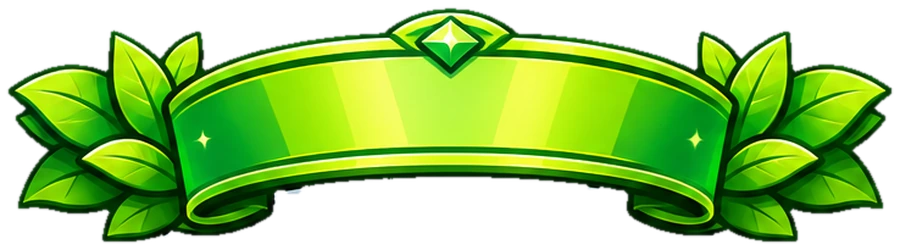
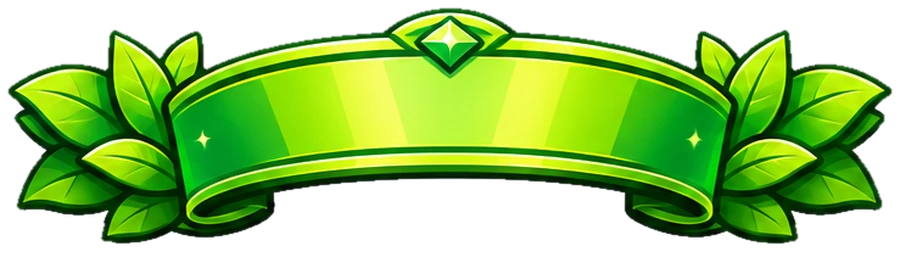
v125 : rubans parfaits, pseudo centré avec contour coloré, plus calme = le plus proche, retour à la fiche d'origine
Claude-Session: https://claude.ai/code/session_015rMa72ZKTeXG5gb4Qifn48

Changed region(s): [[0.0, 0.028, 0.9956, 0.98], [0.2178, 0.504, 0.2489, 0.588], [0.6844, 0.42, 0.7156, 0.448]]

diff --git a/js/app.js b/js/app.js
@@ -1,17 +1,17 @@
 // Y'a du peuple ? — logique de l'appli (carte, fiche, signalement, compte).
-import { api, DEMO } from './api.js?v=124';
+import { api, DEMO } from './api.js?v=125';
 import {
   MAP_STYLE_URL, DEFAULT_CENTER, DEFAULT_ZOOM, CONTACT_EMAIL, GOOGLE_CLIENT_ID,
   ROUTE, REFRESH_MS,
-} from './config.js?v=124';
+} from './config.js?v=125';
 import {
   LEVELS, LEVEL_INFO, WAIT_INFO, NO_INFO, levelInfo, describeStatus, mainStatus, brandShort,
   theoryLevelAt, parisNow, bestTimeToday, fmtHour, distanceM, fmtDistance, ago,
   levelFromPercent, gDay, dayHours, bestTimeFromProfile, openState, hoursLines,
   estimateRoute, fmtDuration,
-} from './levels.js?v=124';
-import { airbnbize, addShieldImage } from './mapstyle.js?v=124';
-import { BRAND_PATHS } from './brands.js?v=124';
+} from './levels.js?v=125';
+import { airbnbize, addShieldImage } from './mapstyle.js?v=125';
+import { BRAND_PATHS } from './brands.js?v=125';
 
 // ---------------------------------------------------------------------------
 // État
@@ -930,7 +930,9 @@ function renderDetail(id) {
   const curveLoading = !detailExtra.has(id);
   const calmer = detailExtra.get(id)?.calmer;
   const fav = state.favorites.has(id);
+  const back = detailBack?.for === id ? state.establishments.get(detailBack.from) : null;
   const html = `
+    ${back ? `<button type="button" class="back-link" id="btn-detail-back">‹ Retour à ${esc(back.name)}</button>` : ''}
     <div class="sheet-head">
       <div class="grow">
         <h2>${esc(e.name)}</h2>
@@ -946,7 +948,7 @@ function renderDetail(id) {
     ${e.has_dine_in ? serviceBlock(e, 'salle') : ''}
     ${e.has_drive ? serviceBlock(e, 'drive') : ''}
     ${calmer?.label ? (calmer.id && state.establishments.has(calmer.id)
-      ? `<button type="button" class="hint hint-go" id="btn-calmer">💡 ${esc(calmer.label)} <span class="hint-arrow">›</span></button>`
+      ? `<button type="button" class="hint hint-go" id="btn-calmer">💡 ${esc(calmer.label)}${calmer.distance_m != null ? ` · ${calmer.distance_m < 1000 ? calmer.distance_m + ' m' : (calmer.distance_m / 1000).toFixed(1).replace('.', ',') + ' km'}` : ''} <span class="hint-arrow">›</span></button>`
       : `<div class="hint">💡 ${esc(calmer.label)}</div>`) : ''}
     ${curveHtml(e, profile, curveLoading)}
     <button class="btn btn-primary" id="btn-report">J'y suis : je signale l'affluence</button>
@@ -956,7 +958,8 @@ function renderDetail(id) {
   detailShown = id;
   $('#btn-close').onclick = closeSheet;
   $('#btn-report').onclick = () => openReport(id);
-  const bc = $('#btn-calmer'); if (bc) bc.onclick = () => openDetail(calmer.id);
+  const bc = $('#btn-calmer'); if (bc) bc.onclick = () => openDetail(calmer.id, id);
+  const bb = $('#btn-detail-back'); if (bb) bb.onclick = () => { const f = detailBack.from; detailBack = null; openDetail(f); };
   const gpsBtn = document.querySelector('#btn-route-gps');
   if (gpsBtn) gpsBtn.onclick = () => askLocation();
   document.querySelectorAll('#sheet-body .day-tab').forEach((b) => b.onclick = () => { curveDay = Number(b.dataset.day); renderDetail(id); });
@@ -978,9 +981,12 @@ function focusResto(e) {
   });
 }
 
-async function openDetail(id) {
+let detailBack = null; // { for: id affiché, from: id de la fiche d'origine } (« Plus calme à côté »)
+async function openDetail(id, fromId) {
   const e = state.establishments.get(id);
   if (!e) return;
+  if (fromId) detailBack = { for: id, from: fromId };
+  else if (detailBack?.for !== id) detailBack = null;
   if (state.selectedId && state.selectedId !== id) state.markers.get(state.selectedId)?.el.classList.remove('selected');
   state.selectedId = id;
   state.markers.get(id)?.el.classList.add('selected');
@@ -1507,14 +1513,16 @@ const custom = {
   async load() { if (!this.list.length) this.list = await api.customizations() || []; return this.list; },
   find(kind, code) { return this.list.find((c) => c.kind === kind && c.code === code); },
   // Valeur = fichier image de l'appli (icons/avatars/…svg, icons/banners/…svg) ; ancien format emoji/dégradé toléré.
-  img(v, cls = '') { return /\.(webp|png|svg)$/.test(v || '') ? `<img src="${v}?v=124" alt="" class="${cls}">` : (v || ''); },
-  bg(v) { return /\.(webp|png|svg)$/.test(v || '') ? `url(${v}?v=124) center/cover` : v; },
+  img(v, cls = '') { return /\.(webp|png|svg)$/.test(v || '') ? `<img src="${v}?v=125" alt="" class="${cls}">` : (v || ''); },
+  bg(v) { return /\.(webp|png|svg)$/.test(v || '') ? `url(${v}?v=125) center/cover` : v; },
   avatar(code) { return this.img(this.find('avatar', code)?.value, 'avatar-img' + (String(code).startsWith('badge_') ? ' is-badge' : '')); },
   // Bannière = ruban qui porte le pseudo (rubans du 15/11/2026, découpés tels quels).
+  // Pseudo : centré sur la bande de chaque ruban (hauteur mesurée) + contour de la couleur du ruban, foncée.
+  RIB: { ruban_argent: ['45%', '#354265'], ruban_bleu: ['44%', '#00656e'], ruban_obsidienne: ['43.5%', '#1a1527'], ruban_or: ['45.8%', '#605800'], ruban_outils: ['45.7%', '#035354'], ruban_rose: ['44%', '#890355'], ruban_rouge: ['49.5%', '#500a00'], ruban_royal: ['46.5%', '#300542'], ruban_trophee: ['49.5%', '#442a04'], ruban_vert: ['44%', '#485903'] },
   ribbon(code, pseudo) {
     const b = this.find('banner', code) || this.list.find((c) => c.kind === 'banner');
-    const dark = /argent/.test(b?.code || '');
-    return `<div class="ribbon ${dark ? 'dark' : ''}">${b ? `<img src="${b.value}?v=124" alt="">` : ''}<span>${esc(pseudo || '')}</span></div>`;
+    const [ty, tc] = this.RIB[b?.code] || ['46%', '#0B1F3A'];
+    return `<div class="ribbon" style="--ty:${ty};--tc:${tc}">${b ? `<img src="${b.value}?v=125" alt="">` : ''}<span>${esc(pseudo || '')}</span></div>`;
   },
 };
 async function openCustomize() {
@@ -1526,7 +1534,7 @@ async function openCustomize() {
     const needBadge = c.requires_badge && !mine.has(c.requires_badge);
     const locked = lvl < c.min_level || needBadge;
     const on = (c.kind === 'avatar' ? p.avatar : p.banner) === c.code;
-    const inner = c.kind === 'avatar' ? `<span class="cz-emoji">${custom.img(c.value, 'cz-img')}</span>` : `<span class="cz-ribbon"><img src="${c.value}?v=124" alt=""></span>`;
+    const inner = c.kind === 'avatar' ? `<span class="cz-emoji">${custom.img(c.value, 'cz-img')}</span>` : `<span class="cz-ribbon"><img src="${c.value}?v=125" alt=""></span>`;
     const label = c.requires_badge ? (needBadge ? '🔒 À gagner' : (BADGE_NAMES[c.requires_badge] || 'Badge')) : `${locked ? '🔒 ' : ''}Niv. ${c.min_level}`;
     return `<button type="button" class="cz ${on ? 'on' : ''} ${locked ? 'locked' : ''}" data-kind="${c.kind}" data-code="${c.code}" ${locked ? 'disabled' : ''}>
       ${inner}<span class="cz-lock">${esc(label)}</span></button>`;
@@ -1602,7 +1610,7 @@ const BADGE_ART = new Set(['v1', 'v10', 'v50', 'v100', 'v250', 'v500', 'drive10'
 // Badges en .svg : plus aucun (outils/badges_sheet.py et badges_sheet2.py découpent les images ChatGPT).
 const BADGE_SVG = new Set(); // tous les badges sont maintenant des images ChatGPT (.webp)
 const badgeImg = (code) => BADGE_ART.has(code)
-  ? `<img src="icons/badges/${code}.${BADGE_SVG.has(code) ? 'svg' : 'webp'}?v=124" alt="" class="badge-img">`
+  ? `<img src="icons/badges/${code}.${BADGE_SVG.has(code) ? 'svg' : 'webp'}?v=125" alt="" class="badge-img">`
   : `<span class="badge-emoji">${BADGE_ICONS[code] || '🏅'}</span>`;
 async function badgesHtml() {
   const rows = await api.badgesProgress() || [];

diff --git a/css/app.css b/css/app.css
@@ -607,10 +607,13 @@ html, body, .sheet, .sheet-body, .welcome, .cards { touch-action: pan-x pan-y; }
 .profile-head .avatar { width: 84px; height: 84px; background: var(--navy); box-shadow: 0 0 0 3px #fff, 0 4px 14px rgba(11,31,58,.25); position: relative; z-index: 2; }
 .ribbon { position: relative; z-index: 1; width: min(100%, 330px); margin-top: 10px; filter: drop-shadow(0 3px 6px rgba(11,31,58,.18)); }
 .ribbon img { display: block; width: 100%; height: auto; }
-.ribbon span { position: absolute; left: 22%; right: 22%; top: 50%; transform: translateY(-38%); font-weight: 900; font-size: clamp(15px, 5.2vw, 21px); line-height: 1.1; color: #fff; text-shadow: 0 1px 0 rgba(0,0,0,.45), 0 0 6px rgba(0,0,0,.35); white-space: nowrap; overflow: hidden; text-overflow: ellipsis; letter-spacing: .2px; }
-.ribbon.dark span { color: var(--navy); text-shadow: 0 1px 0 rgba(255,255,255,.6); }
+.ribbon span { position: absolute; left: 21%; right: 21%; top: var(--ty, 46%); transform: translateY(-50%); text-align: center; font-weight: 900; font-size: clamp(15px, 5.2vw, 21px); line-height: 1.15; color: #fff; letter-spacing: .3px; white-space: nowrap; overflow: hidden; text-overflow: ellipsis; padding: 3px 2px;
+  text-shadow: 2px 0 0 var(--tc), -2px 0 0 var(--tc), 0 2px 0 var(--tc), 0 -2px 0 var(--tc), 1.5px 1.5px 0 var(--tc), -1.5px 1.5px 0 var(--tc), 1.5px -1.5px 0 var(--tc), -1.5px -1.5px 0 var(--tc), 0 3px 4px rgba(0,0,0,.35); }
 .profile-head .lvl { margin-top: 2px; }
 .cz-ribbon { display: block; width: 100%; }
 .cz-ribbon img { display: block; width: 100%; height: auto; }
 .avatar-img.is-badge, .cz-img[src*="badges/"] { border-radius: 0; object-fit: contain; }
 .avatar .avatar-img.is-badge { width: 92%; height: 92%; margin: 4%; }
+
+.back-link { display: inline-flex; align-items: center; gap: 4px; border: 0; background: #F0FDFA; color: #0F766E; font: inherit; font-size: 13.5px; font-weight: 800; padding: 7px 12px; border-radius: 999px; margin: 0 0 8px; cursor: pointer; max-width: 100%; overflow: hidden; text-overflow: ellipsis; white-space: nowrap; }
+.back-link:active { transform: scale(.97); }

diff --git a/index.html b/index.html
@@ -19,13 +19,13 @@
   <meta name="twitter:image" content="https://yadupeuple.github.io/icons/og.png">
   <meta name="theme-color" content="#0B1F3A">
   <link rel="manifest" href="manifest.webmanifest">
-  <link rel="icon" href="icons/fav-64.png?v=124" type="image/png" sizes="64x64">
-  <link rel="icon" href="icons/fav-192.png?v=124" type="image/png" sizes="192x192">
-  <link rel="apple-touch-icon" href="icons/icon-192.png?v=124">
+  <link rel="icon" href="icons/fav-64.png?v=125" type="image/png" sizes="64x64">
+  <link rel="icon" href="icons/fav-192.png?v=125" type="image/png" sizes="192x192">
+  <link rel="apple-touch-icon" href="icons/icon-192.png?v=125">
   <meta name="apple-mobile-web-app-capable" content="yes">
   <meta name="apple-mobile-web-app-status-bar-style" content="default">
   <link rel="stylesheet" href="vendor/maplibre-gl.css">
-  <link rel="stylesheet" href="css/app.css?v=124">
+  <link rel="stylesheet" href="css/app.css?v=125">
 </head>
 <body class="intro">
   <div id="map" aria-label="Carte des restaurants"></div>
@@ -68,7 +68,7 @@
   <section class="welcome" id="welcome" hidden>
     <div class="welcome-inner">
       <div class="welcome-logo">
-        <img src="icons/icon-512.png?v=124" alt="" width="110" height="110" style="border-radius:26px">
+        <img src="icons/icon-512.png?v=125" alt="" width="110" height="110" style="border-radius:26px">
       </div>
       <h1>Y'a du peuple&nbsp;?</h1>
       <p class="slogan" id="slogan">Venu pour manger, pas pour poireauter.</p>
@@ -87,6 +87,6 @@
 
   <script src="vendor/maplibre-gl.js"></script>
   <script src="vendor/supabase.js"></script>
-  <script type="module" src="js/app.js?v=124"></script>
+  <script type="module" src="js/app.js?v=125"></script>
 </body>
 </html>

diff --git a/demo.html b/demo.html
@@ -7,12 +7,12 @@
   <meta name="description" content="L'affluence des fast-foods en direct, salle et Drive.">
   <meta name="theme-color" content="#0B1F3A">
   <link rel="manifest" href="manifest.webmanifest">
-  <link rel="icon" href="icons/fav-64.png?v=124" type="image/png">
-  <link rel="apple-touch-icon" href="icons/icon-192.png?v=124">
+  <link rel="icon" href="icons/fav-64.png?v=125" type="image/png">
+  <link rel="apple-touch-icon" href="icons/icon-192.png?v=125">
   <meta name="apple-mobile-web-app-capable" content="yes">
   <meta name="apple-mobile-web-app-status-bar-style" content="default">
   <link rel="stylesheet" href="vendor/maplibre-gl.css">
-  <link rel="stylesheet" href="css/app.css?v=124">
+  <link rel="stylesheet" href="css/app.css?v=125">
 </head>
 <body class="intro">
   <div id="map" aria-label="Carte des restaurants"></div>
@@ -55,7 +55,7 @@
   <section class="welcome" id="welcome" hidden>
     <div class="welcome-inner">
       <div class="welcome-logo">
-        <img src="icons/icon-512.png?v=124" alt="" width="110" height="110" style="border-radius:26px">
+        <img src="icons/icon-512.png?v=125" alt="" width="110" height="110" style="border-radius:26px">
       </div>
       <h1>Y'a du peuple&nbsp;?</h1>
       <p class="slogan" id="slogan">Venu pour manger, pas pour poireauter.</p>
@@ -75,6 +75,6 @@
   <script>window.YDP_DEMO = true;</script>
   <script src="vendor/maplibre-gl.js"></script>
   <script src="vendor/supabase.js"></script>
-  <script type="module" src="js/app.js?v=124"></script>
+  <script type="module" src="js/app.js?v=125"></script>
 </body>
 </html>

diff --git a/js/demo.js b/js/demo.js
@@ -1,6 +1,6 @@
 // Faux serveur pour le mode démo (?demo) : aucune donnée réelle n'est lue ni écrite.
-import { DEMO_ESTABLISHMENTS } from './demo-data.js?v=124';
-import { distanceM, LEVELS, theoryLevelAt, parisNow } from './levels.js?v=124';
+import { DEMO_ESTABLISHMENTS } from './demo-data.js?v=125';
+import { distanceM, LEVELS, theoryLevelAt, parisNow } from './levels.js?v=125';
 
 const wait = (ms = 150) => new Promise((r) => setTimeout(r, ms));
 
@@ -180,7 +180,7 @@ export function createDemoApi() {
       await wait();
       const e = DEMO_ESTABLISHMENTS.find((x) => x.id === id);
       const other = DEMO_ESTABLISHMENTS.find((x) => x.city === e?.city && x.id !== id);
-      return other ? { id: other.id, name: other.name, label: `Plus calme à côté : ${other.name}` } : {};
+      return other ? { id: other.id, name: other.name, distance_m: 450, label: `Plus calme à côté : ${other.name}` } : {};
     },
     async ranking(scope) {
       await wait();

diff --git a/affiche.html b/affiche.html
@@ -68,9 +68,9 @@
     <div class="url">yadupeuple.github.io · gratuit, sans téléchargement</div>
   </div>
 
-  <script src="vendor/qrcode.js?v=124"></script>
+  <script src="vendor/qrcode.js?v=125"></script>
   <script type="module">
-    import { SUPABASE_URL, SUPABASE_PUBLISHABLE_KEY } from './js/config.js?v=124';
+    import { SUPABASE_URL, SUPABASE_PUBLISHABLE_KEY } from './js/config.js?v=125';
     const SITE = 'https://yadupeuple.github.io/';
     const pick = document.getElementById('pick');
     const params = new URLSearchParams(location.search);

diff --git a/js/api.js b/js/api.js
@@ -1,6 +1,6 @@
 // Accès aux données : Supabase en vrai, ou un faux serveur en mode démo (?demo).
-import { SUPABASE_URL, SUPABASE_PUBLISHABLE_KEY } from './config.js?v=124';
-import { createDemoApi } from './demo.js?v=124';
+import { SUPABASE_URL, SUPABASE_PUBLISHABLE_KEY } from './config.js?v=125';
+import { createDemoApi } from './demo.js?v=125';
 
 export const DEMO = window.YDP_DEMO === true || new URLSearchParams(location.search).has('demo');
 

diff --git a/outils/rubans_sheet.py b/outils/rubans_sheet.py
@@ -7,11 +7,20 @@ im = Image.open('outils/src/rubans_sheet.png').convert('RGB')
 a = np.asarray(im).astype(int)
 # fond = zones très claires reliées au bord de l'image
 # fond + ombre grise + liseré blanc : pixels clairs et peu colorés reliés au bord (15/11 : retire les « ratures »)
-light = (a.min(axis=2) >= 150) & ((a.max(axis=2) - a.min(axis=2)) <= 26)
+light = (a.min(axis=2) >= 236) & ((a.max(axis=2) - a.min(axis=2)) <= 20)  # vrai fond blanc seulement
 lab, _ = ndimage.label(light)
 edge = set(np.unique(np.concatenate([lab[0], lab[-1], lab[:, 0], lab[:, -1]]))) - {0}
 bg = np.isin(lab, list(edge))
-fg = ndimage.binary_fill_holes(~bg)
+def fill_small(m):
+    # bouche les trous SAUF ceux qui sont gris/blancs (ombre coincée sous le ruban)
+    holes = ndimage.binary_fill_holes(m) & ~m
+    lab, k = ndimage.label(holes)
+    for j in range(1, k + 1):
+        h = lab == j
+        if (neutral_all[h].mean() < 0.5) or h.sum() < 40: m = m | h
+    return m
+neutral_all = ((a.max(axis=2) - a.min(axis=2)) <= 45) & (a.min(axis=2) >= 100)
+fg = fill_small(~bg)
 lab2, k = ndimage.label(ndimage.binary_dilation(fg, iterations=1))
 sizes = ndimage.sum(fg, lab2, range(1, k + 1))
 keep = np.argsort(sizes)[::-1][:10] + 1
@@ -19,8 +28,31 @@ boxes = [(ndimage.find_objects((lab2 == i).astype(int))[0], i) for i in keep]
 boxes = sorted(boxes, key=lambda t: (t[0][1].start > a.shape[1] / 2, t[0][0].start))  # colonne gauche puis droite, de haut en bas
 codes = ['ruban_or', 'ruban_bleu', 'ruban_vert', 'ruban_rose', 'ruban_outils',
          'ruban_royal', 'ruban_rouge', 'ruban_argent', 'ruban_obsidienne', 'ruban_trophee']
+neutral = ((a.max(axis=2) - a.min(axis=2)) <= 45) & (a.min(axis=2) >= 100)  # gris / blanc (ombre, liseré)
+shadowish = neutral & (a.max(axis=2) <= 240)  # gris de l'ombre (pas le blanc pur des reflets)
+def clean(m):
+    # v125 : on « épluche » depuis le bord les pixels gris/blancs restants, on coupe les fils fins,
+    # puis on ne garde que le ruban (gros morceaux) : plus aucune rature autour.
+    # on épluche depuis le bord tous les pixels gris/blancs (ombre, halo) ; le contour foncé du ruban arrête l'épluchage
+    for _ in range(30):
+        border = m & ~ndimage.binary_erosion(m)
+        peel = border & neutral
+        if not peel.any(): break
+        m = m & ~peel
+    # fin liseré gris-bleu restant sous le contour (transition contour / ombre)
+    greyish = (a.min(axis=2) >= 60) & ((a.max(axis=2) - a.min(axis=2)) <= 80)
+    for _ in range(3):
+        below_empty = np.zeros_like(m); below_empty[:-1] = ~m[1:]
+        peel = m & greyish & below_empty
+        if not peel.any(): break
+        m = m & ~peel
+    m = ndimage.binary_opening(m, iterations=2)
+    lab, k = ndimage.label(m)
+    if k > 1:
+        sz = ndimage.sum(m, lab, range(1, k + 1)); m = np.isin(lab, [j + 1 for j, v in enumerate(sz) if v >= sz.max() * 0.03])
+    return fill_small(m)
 for code, (b, i) in zip(codes, boxes):
-    mask = ndimage.binary_erosion(fg & (lab2 == i), iterations=2)
+    mask = clean(ndimage.binary_erosion(fg & (lab2 == i), iterations=2))
     alpha = Image.fromarray((mask * 255).astype('uint8')).filter(ImageFilter.GaussianBlur(0.7))
     rgba = im.convert('RGBA'); rgba.putalpha(alpha)
     y0, y1, x0, x1 = b[0].start, b[0].stop, b[1].start, b[1].stop

diff --git a/CLAUDE.md b/CLAUDE.md
@@ -44,7 +44,7 @@ Fonctions appelées par l'appli (RPC) :
 | get_history(p_establishment, p_service, p_limit ≤ 5) | oui | 5 derniers signalements anonymes de moins de 12 h (app_settings history_max_hours) |
 | get_ranking(p_scope 'month'|'all', p_city) | oui | classement du mois (remis à zéro le 1er) ou depuis le début (top 10 + moi, avec avatar) |
 | get_public_profile(p_pseudo) | oui | profil public d'un joueur : jamais d'e-mail, de contact ni de lieu |
-| calmer_nearby_info(p_id) | oui | {id, name, label} « Plus calme à côté : … », cliquable sur la fiche (v123) ; ancienne calmer_nearby (texte) gardée |
+| calmer_nearby_info(p_id) | oui | {id, name, distance_m, label} : resto plus calme **le plus proche** (≤ 5 km, v125), cliquable sur la fiche, avec « ‹ Retour à … » ; ancienne calmer_nearby (texte) gardée |
 | submit_report(p_establishment, p_service, p_level, p_wait, p_lat, p_lng, p_accuracy_m) | non | envoyer un signalement |
 | get_my_profile(), get_badges_progress(), change_pseudo(new_pseudo) | non | compte |
 | toggle_favorite(est), my_favorites() | non | favoris |
@@ -84,7 +84,7 @@ Erreurs de submit_report : `{ok:false, error, message}` — afficher `message` t
 - Niveaux 1 à 100 : points ≈ 12 × (niveau − 1)^1,46 (niv. 2 = 10, 10 = 300, 50 = 3 575, 100 = 10 000) ; titres tous les 10 niveaux.
   Avatars (30) : images choisies par Alexis (planches ChatGPT du 12/11/2026), découpées telles quelles
   et agrandies ×4 (outils/extract.py) → icons/avatars/*.webp, icons/banners/*.webp. Ne pas les redessiner.
-  Bannières = 10 rubans (15/11/2026, planche ChatGPT, outils/rubans_sheet.py ; ombre grise et liseré blanc retirés en v124 → icons/banners/ruban_*.webp) qui portent le pseudo sous l'avatar ;
+  Bannières = 10 rubans (15/11/2026, planche ChatGPT, outils/rubans_sheet.py ; ombre grise et liseré retirés (v125 : vrai fond blanc + épluchage des gris + trous gris non bouchés) ; pseudo placé par ruban et contour de sa couleur (custom.RIB dans app.js) → icons/banners/ruban_*.webp) qui portent le pseudo sous l'avatar ;
   niveaux 1 (bleu, vert), 5, 10, 20, 30, 40, 50, 70, 100 ; anciennes bannières désactivées. Badges gagnés utilisables en image de profil
   (customizations.requires_badge, contrôlé par set_customization ; supabase/2026-11-15_rubans_avatars_badges.sql).
 - Points des badges (ajoutés aux points normaux) : +1 par badge, +10 quand une catégorie (badges actifs) est complète
